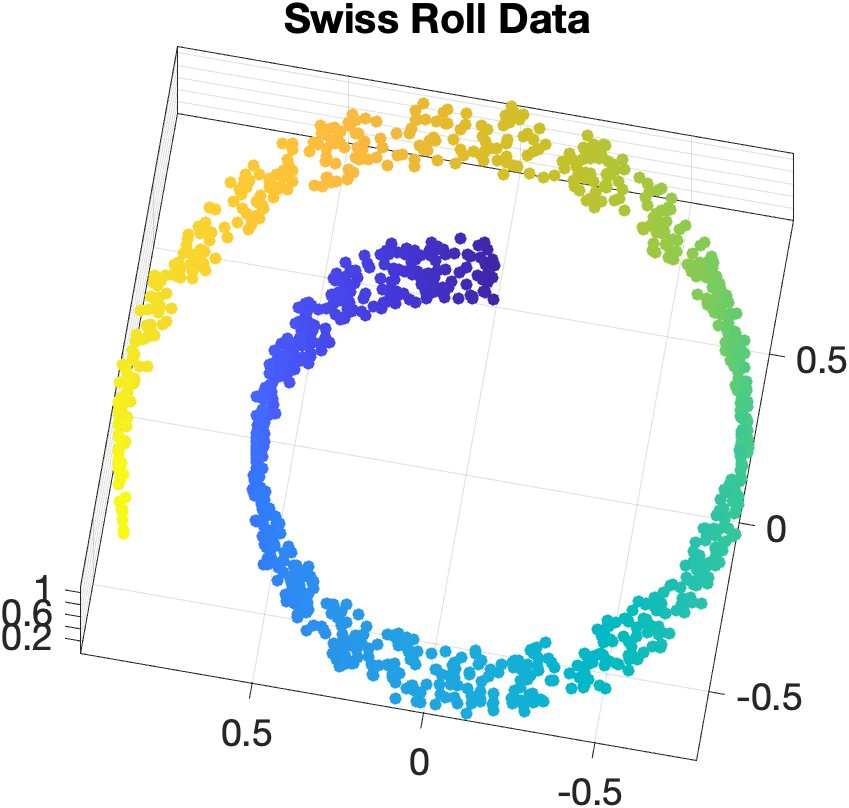
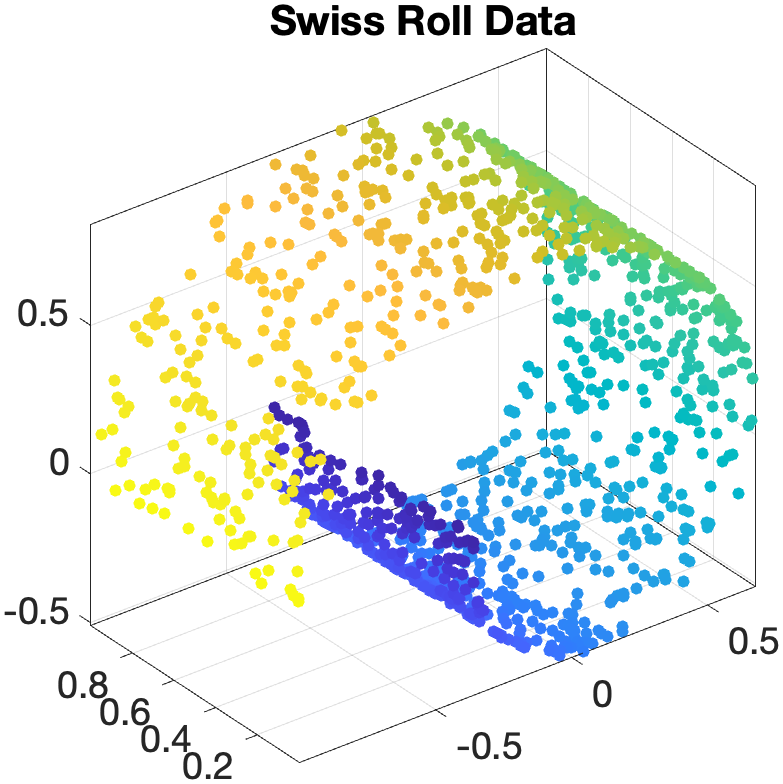
新增拉普拉斯变换

diff --git a/Examples/DimensionReduction.m b/Examples/DimensionReduction.m
@@ -57,35 +57,42 @@ title('LLE'), axis equal;
 
 exportgraphics(gcf, './results/DR_data2_result.png');
 %% Swiss Roll Data
-num = 500;
-theta = linspace(0, 2.5 * pi, 30);
+n = 1200;
+r = unifrnd(0, 1, n, 1);
+l = unifrnd(0, 1, n, 1);
 
-[Xt, Xw] = meshgrid(theta, linspace(0, 1, 40));
-Xr = Xt(:) / max(Xt(:)) / 2 +1/2;
-Xt = Xt(:) + rand(size(Xt(:))) * 0.4;
-Xw = Xw(:) + rand(size(Xw(:))) * 0.1;
-X = [cos(Xt) .* Xr, sin(Xt) .* Xr, Xw];
-C = Xt;
+t = (2 * pi) / 2 * (1 + 2 * r);
+x = t .* cos(t) / max(t(:));
+y = l;
+z = t .* sin(t) / max(t(:));
+
+C = t;
+X = [x y z];
+
 figure, scatter3(X(:, 1), X(:, 2), X(:, 3), [], C, 'filled');
 title('Swiss Roll Data'), axis equal;
-view(280, 80);
 exportgraphics(gcf, './results/DR_data3.png');
 
 X_PCA = PCA(X, 2);
 X_PSA = PSA(X, 2);
-X_LLE = LLE(X, 12, 2);
+X_LLE = LLE(X, 15, 2);
+X_LE = LE(X, 0.07, 2);
 
 figure('Position', [0, 0, 1000, 300]);
-subplot(131);
+subplot(141);
 scatter(X_PCA(:, 1), X_PCA(:, 2), [], C, 'filled');
-title('PCA'), axis equal;
+title('PCA'), axis square;
 
-subplot(132);
+subplot(142);
 scatter(X_PSA(:, 1), X_PSA(:, 2), [], C, 'filled');
-title('PSA'), axis equal;
+title('PSA'), axis square;
 
-subplot(133);
+subplot(143);
 scatter(X_LLE(:, 1), X_LLE(:, 2), [], C, 'filled');
-title('LLE'), axis equal;
+title('LLE'), axis square;
+
+subplot(144);
+scatter(X_LE(:, 1), X_LE(:, 2), [], C, 'filled');
+title('LE'), axis square;
 
 exportgraphics(gcf, './results/DR_data3_result.png');

diff --git a/Examples/LE.m b/Examples/LE.m
@@ -1,0 +1,11 @@
+function y = LE(X, sigma, d)
+    dis = squareform(pdist(X));
+    dis = dis / max(dis(:));
+    W = exp(-dis .^ 2 / sigma ^ 2);
+    W = W / max(W(:));
+    D = diag(sum(W, 2));
+    L = D - W;
+    [V, K, ~] = svds(L, d + 1, "smallest");
+    disp(diag(K));
+    y = V(:, 1:d);
+end
